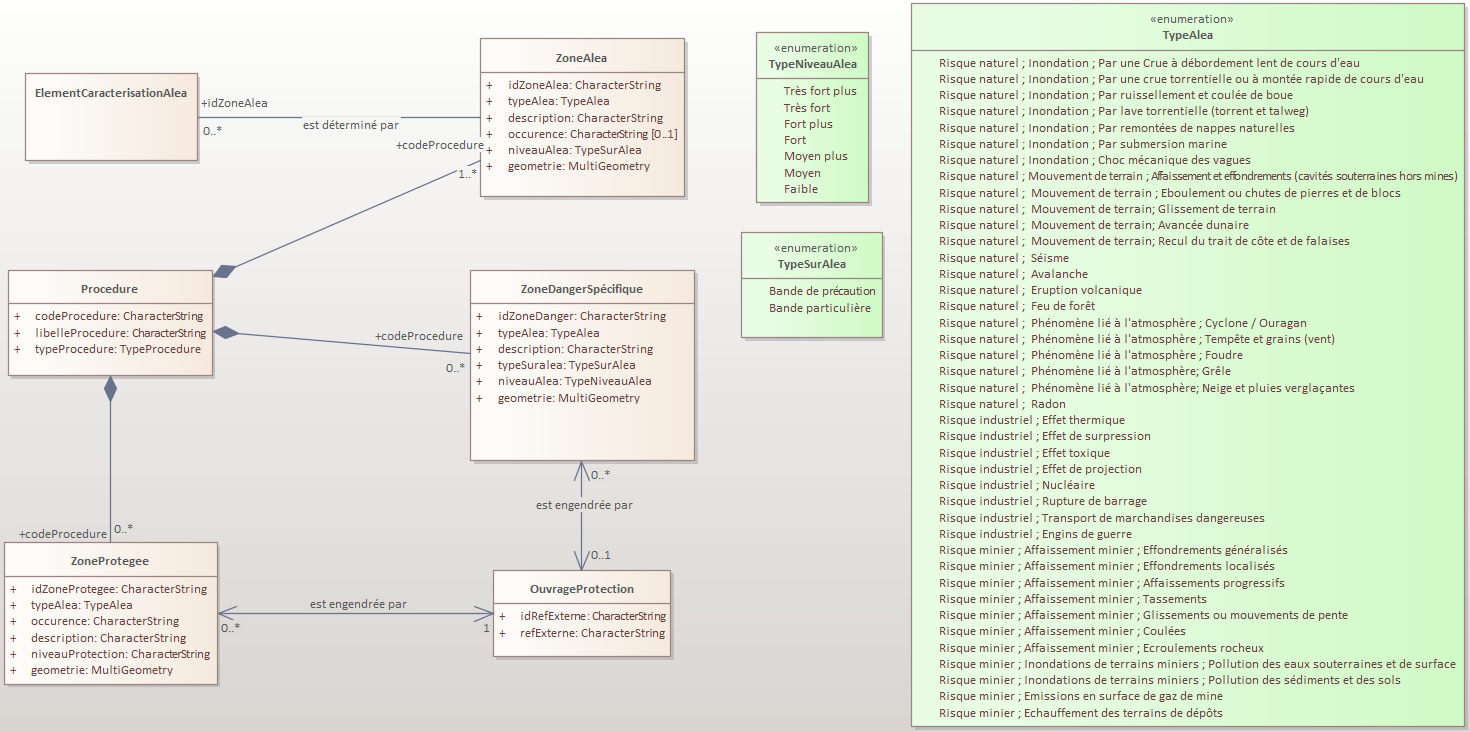
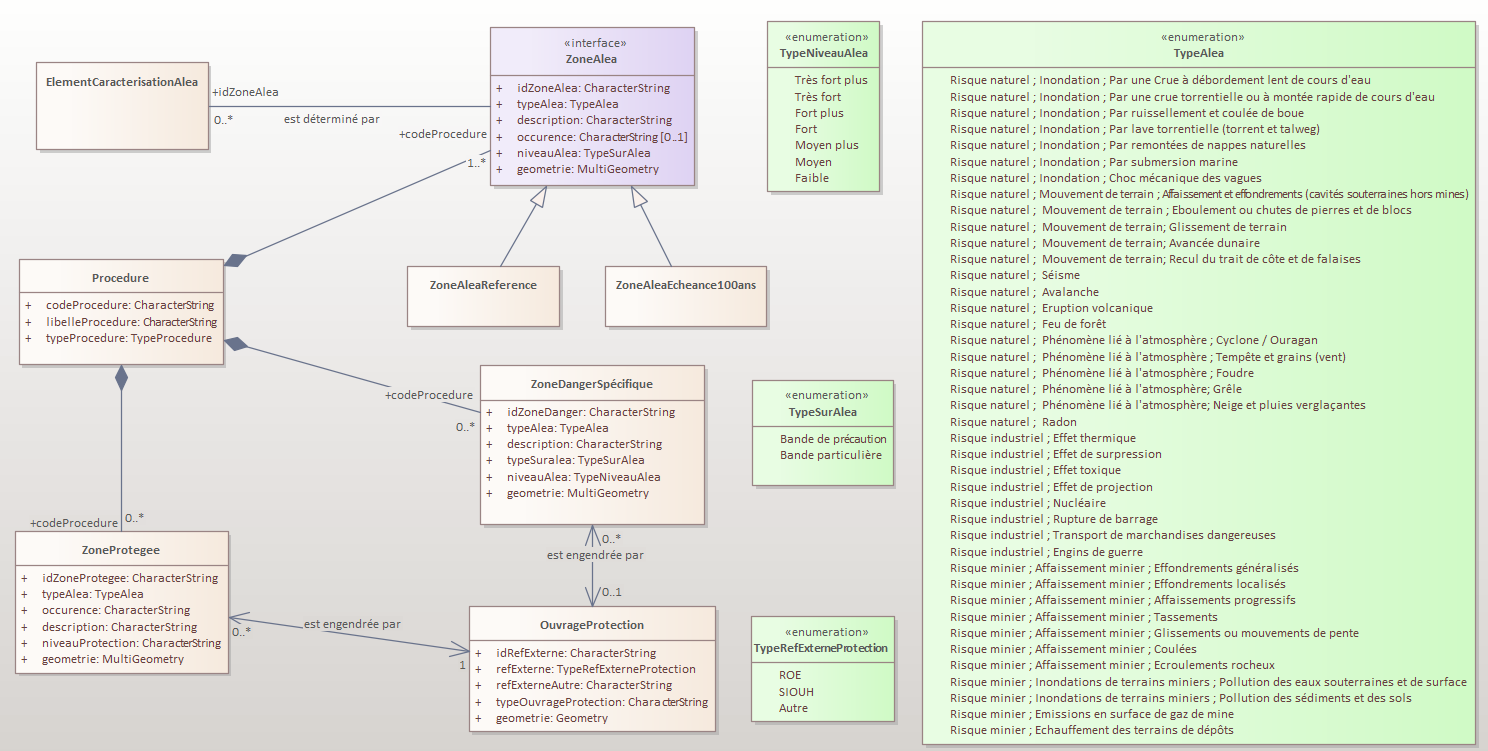
Rajout Zones Alea reference et Zones Alea Reference 100 ans

diff --git a/standards/Geostandards-risques-commun/Document.md b/standards/Geostandards-risques-commun/Document.md
@@ -74,7 +74,8 @@ Le groupe de travail CNIG sur la refonte des Géostandards risques rassemble les
 |-|-|
 | Risque | (INSPIRE "Natural Risk Zones" reprise de ISO 31010 - Management du risque) : Un risque est la combinaison d'un événement (Aléa) et la probabilité de son occurence.  |
 | Aléa | (INSPIRE "Natural Risk Zones" reprise de UNISDR 2009 - Terminologie pour la Prévention des risques de catastrophe) Un phénomène dangereux, une substance, activité humaine ou condition pouvant causer des pertes de vies humaines, des blessures ou d’autres effets sur la santé, des dommages aux biens, des pertes de moyens de subsistance et des services, des perturbations socio-économiques, ou des dommages à l’environnement.  |
-| Aléa de référence | (Article R562-11-3 du Code de l'environnement) Dans le cas des aléas de débordement de cours d'eau et submersion marine, l'aléa de référence est l'aléa déterminé à partir de l'évènement le plus important connu et documenté ou d'un évènement théorique de fréquence centennale, si ce dernier est plus important.   |
+| Aléa de référence | ([Article R562-11-3 du Code de l'environnement](https://www.legifrance.gouv.fr/codes/article_lc/LEGIARTI000038733751)) Dans le cas des aléas de débordement de cours d'eau et submersion marine, l'aléa de référence est l'aléa déterminé à partir de l'évènement le plus important connu et documenté ou d'un évènement théorique de fréquence centennale, si ce dernier est plus important.   |
+| Aléa à échéance 100 ans | ([Article R562-11-4](https://www.legifrance.gouv.fr/codes/article_lc/LEGIARTI000038733755). S'agissant de la submersion marine, l'aléa à échéance 100 ans correspond à l'aléa de référence auquel est ajoutée une marge supplémentaire, précisée par arrêté du ministre chargé de la prévention des risques majeurs. Cet aléa supplémentaire correspond à la prise en compte des impacts du changement climatique à échéance 100 ans. | 
 | Opposable | Un document juridique est opposable aux tiers quand tout le monde doit le respecter, même les personnes qui ne l'ont pas signé. Dans le cadre de la prévention des risques, ce terme s'applique a des périmètres géographiques associés à une procédure lorsqu'elle est validée par une autorité publique et sur lesquels s'appliquent des contraintes réglementaires notamment en terme d'urbanisme. |
 
 
@@ -358,6 +359,8 @@ Dans cette thématique sont définies :
 
 La classe [ZoneAlea](#classe-dobjets-zonealea) permet de décrire les zones soumises à des aléas, en indiquant le type d'aléa (classifié à l'aide l'énumération [TypeAlea](#enumeration-typealea)) qui la concerne, son niveau (classifié selon l'énumération [TypeNiveauAlea](#enumeration-typeniveaualea)) et sa probabilité d'occurence. Les zones d'aléas sont définies par rapport à une procédure donnée.
 
+Dans le cadre de l'élaboration des **plans de prévention des risque naturels**, les zones d'aléa sont déterminées et qualifiées relativement à un **aléa de référence** dont les modalités sont fixées par décrets relatifs au type d'aléa. Dans le cas particulier de l'aléa **inondation par submersion marine**, des zones d'**aléas à échéance 100 ans** doivent aussi être déterminées et qualifiées selon des modalités précisées par arrêté du ministre chargé de la prévention des risques majeurs ([Art. R562-11-5 du code de l'environnement](https://www.legifrance.gouv.fr/codes/section_lc/LEGITEXT000006074220/LEGISCTA000006177007/#LEGISCTA000006177007)). Dans ce cadre, la classe [ZoneAlea](#classe-dobjets-zonealea) est spécialisée par deux classes [ZoneAleaReference](#classe-dobjets-zonealeareference) et [ZoneAleaEcheance100ans](#classe-dobjets-zonealeaecheance100ans) permettant de représenter les zones d'aléas correspondant respectivement à l'aléa de référence et à l'aléa  à échéance 100 ans. L'implémentation de la classe ZoneAleaEcheance100ans n'est obligatoire que dans le cadre de l'aléa submersion marine.
+
 La classe [ZoneDangerSpecifique](#classe-dobjets-zonedangerspecifique) permet de représenter des zones de danger particulières superposables aux zones d'aléas décrites précédemment. Ces zones de danger particulières peuvent être de deux types : les **bandes de précaution** à l'arrière des systèmes d'endiguement et les **bandes particulières** liées aux chocs mécaniques des vagues et projection des matériaux telles que définies dans le [Decret PPRI:2019](*ref documentaire à rajouter*)) et le [Guide PPRL:2014](*ref documentaire à rajouter*). Elles sont aussi caractérisées par le type d'aléa ([TypeAlea](#enumeration-typealea)) et son niveau ([TypeNiveauAlea](#enumeration-typeniveaualea)) et rattachées à une procédure donnée. Elles peuvent être aussi liées à un ouvrage de protection ([OuvrageProtection](#classe-dobjets-ouvrageprotection)), notamment lorsqu'il sagit d'une bande de protection. 
 
 La classe [ZoneProtegee](#classe-dobjets-zoneprotegee)) permet de décrire les zones protégées par un ouvrage de protection ([OuvrageProtection](#classe-dobjets-ouvrageprotection)) lorsque le niveau de protection de ce dernier est au moins égal à l'aléa de référence. Ces zones sont superposables aux zones d'aléas. Elles sont caractérisées par le type d'aléa ([TypeAlea](#enumeration-typealea)), un niveau de protection et une période de retour relatifs à l'ouvrage de protection.
@@ -401,6 +404,33 @@ Les zones d'aléas sont déterminées à partir d'éléments techniques, spécif
 | Nom de l'association | Type | Définition | Classe de départ | Classe d'arrivée |
 |-|-|-|-|-|
 | **est déterminé par** | Association | Relation sémantique permettant de faire le lien entre une zone d'aléa et des éléments qui ont pu permettre de la calculer, décrits par la classe générique [ElementCaracterisationAlea](#classe-dobjets-elementcaracterisationalea).| [ZoneAlea](#classe-dobjets-zonealea) (0..1) | [ElementCaracterisationAlea](#classe-dobjets-elementcaracterisationalea) (0..\*) |
+
+
+#### Classe d'objets *ZoneAleaReference*
+
+**Nom de la classe** : ZoneAleaReference
+
+**Titre** : Zone d'aléa de référence
+
+**Définition** : La classe Zone d'aléa de référence permet de décrire des zones géographiques soumises à des aléas de type naturels déterminéés à partir de l'**aléa de référence** et d'en préciser le type d'aléa, son niveau, et sa probabilité d'occurence. Elle a les mêmes propriétés de que la classe [ZoneAlea](#classe-dobjets-zonealea).
+
+**Modélisation géométrique** : Cf. modélisation géométrique de la classe [ZoneAlea](#classe-dobjets-zonealea).
+
+**Propriétés** : Cf. propriétés de la classe [ZoneAlea](#classe-dobjets-zonealea).
+
+
+
+#### Classe d'objets *ZoneAleaEcheance100ans*
+
+**Nom de la classe** : ZoneAleaEcheance100ans
+
+**Titre** : Zone d'aléa à échéance 100 ans.
+
+**Définition** : La classe Zone d'aléa à échéance 100 ans permet de décrire des zones géographiques soumises à des aléas de type naturels déterminéés à partir de l'**aléa à échéance 100 ans** et d'en préciser le type d'aléa, son niveau, et sa probabilité d'occurence. Elle a les mêmes propriétés de que la classe [ZoneAlea](#classe-dobjets-zonealea).
+
+**Modélisation géométrique** : Cf. modélisation géométrique de la classe [ZoneAlea](#classe-dobjets-zonealea).
+
+**Propriétés** : Cf. propriétés de la classe [ZoneAlea](#classe-dobjets-zonealea).
 
 
 #### Classe d'objets *ZoneProtegee*
